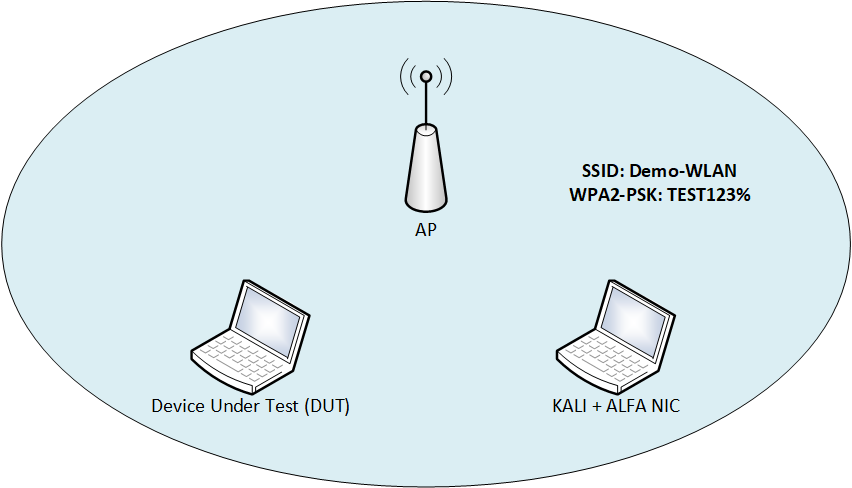
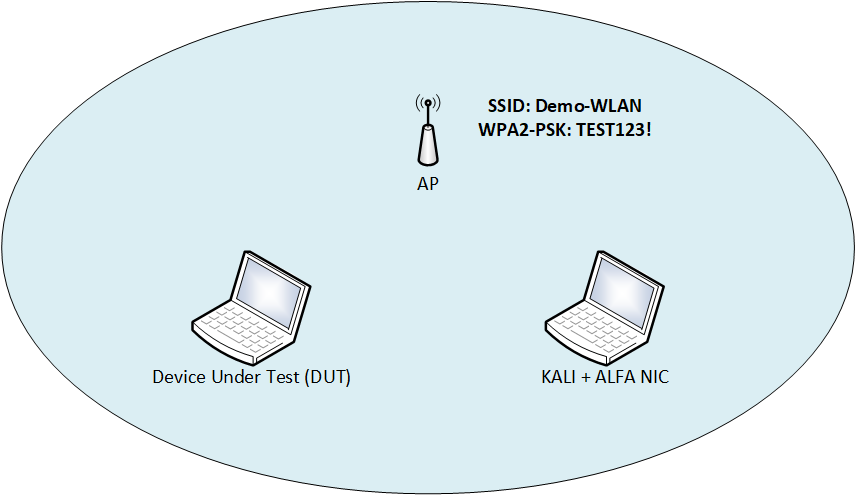
WLAN - new alfa

diff --git a/docs/wireshark/README.md b/docs/wireshark/README.md
@@ -767,7 +767,15 @@ This is therefore a typical example where Wireshark is not used for capturing bu
 ![Success](./assets/wlan-eapol.png)   
 
 It is very important to know that encrypted wireless network traffic can only be decrypted if the handshake can be captured. (See the top left of the figure above.)  
-The handshake can be obtained easily by connecting an additional device to the target network or by triggering a deauthentication attack on an already connected device.
+The handshake can be obtained easily by connecting an additional device to the target network or by triggering a deauthentication attack on an already connected device.   
+
+The handshake can also be visualized in Wireshark using the display filter `eapol`.
+
+![Success](./assets/wlan-eapol2.png)
+
+8. Below you will find the settings to decrypt the captured wireless network traffic.
+Select `Edit` → `Preferences` → `Protocols` → `IEEE 802.11` → `Decryption keys Edit`
+
 
 
 
